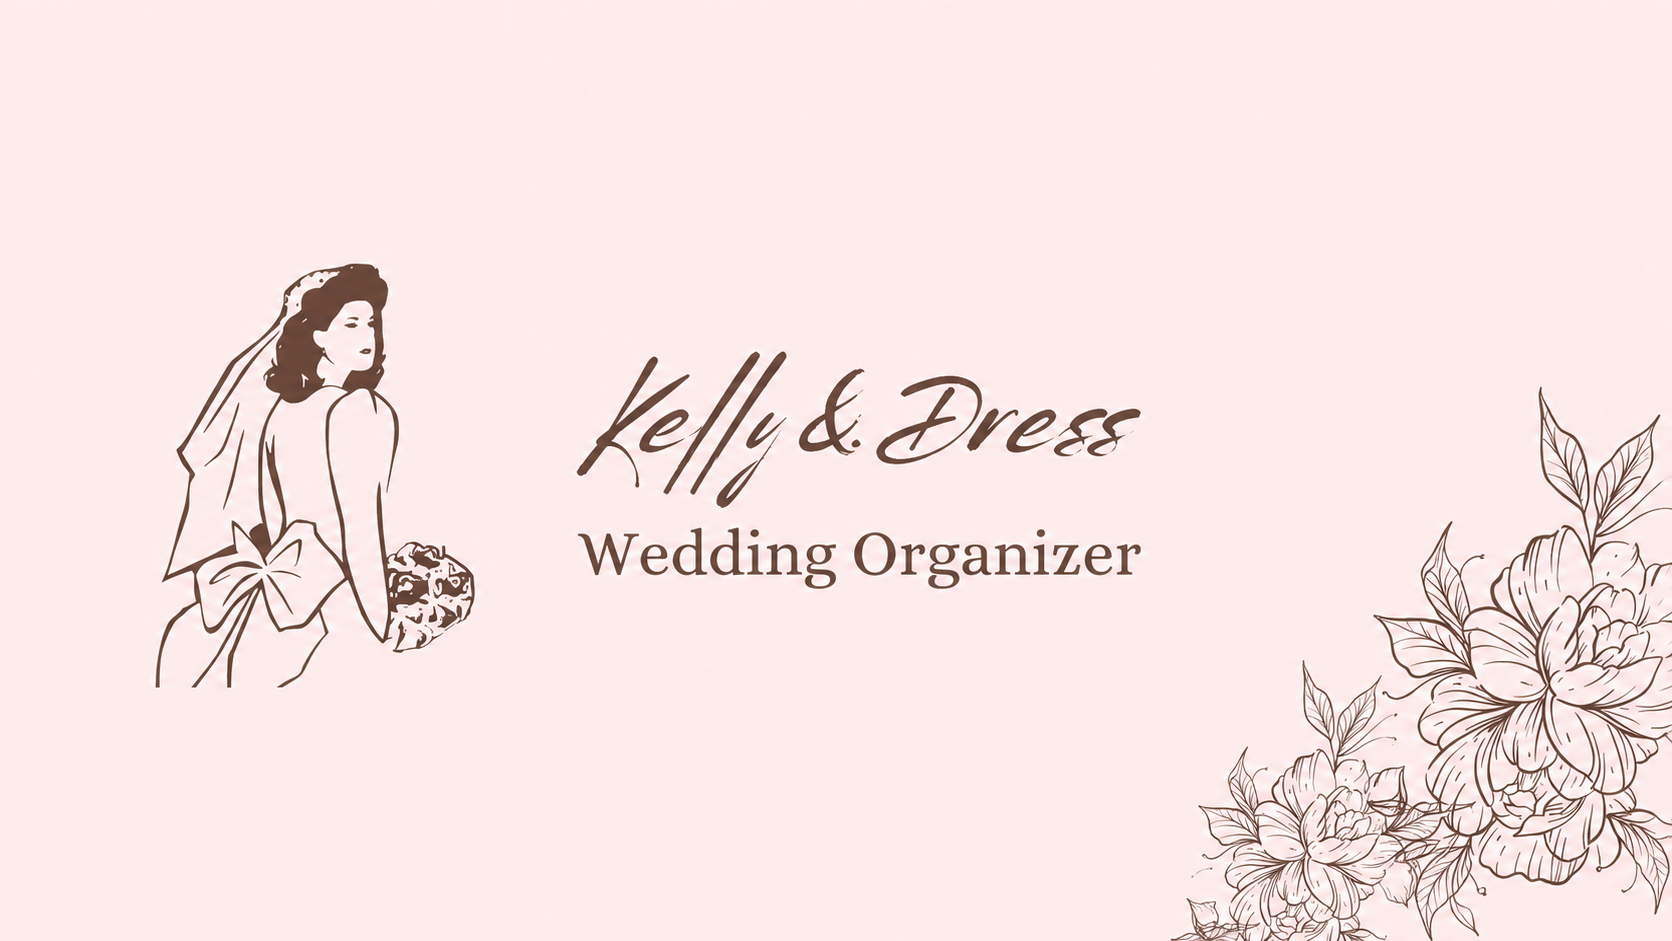
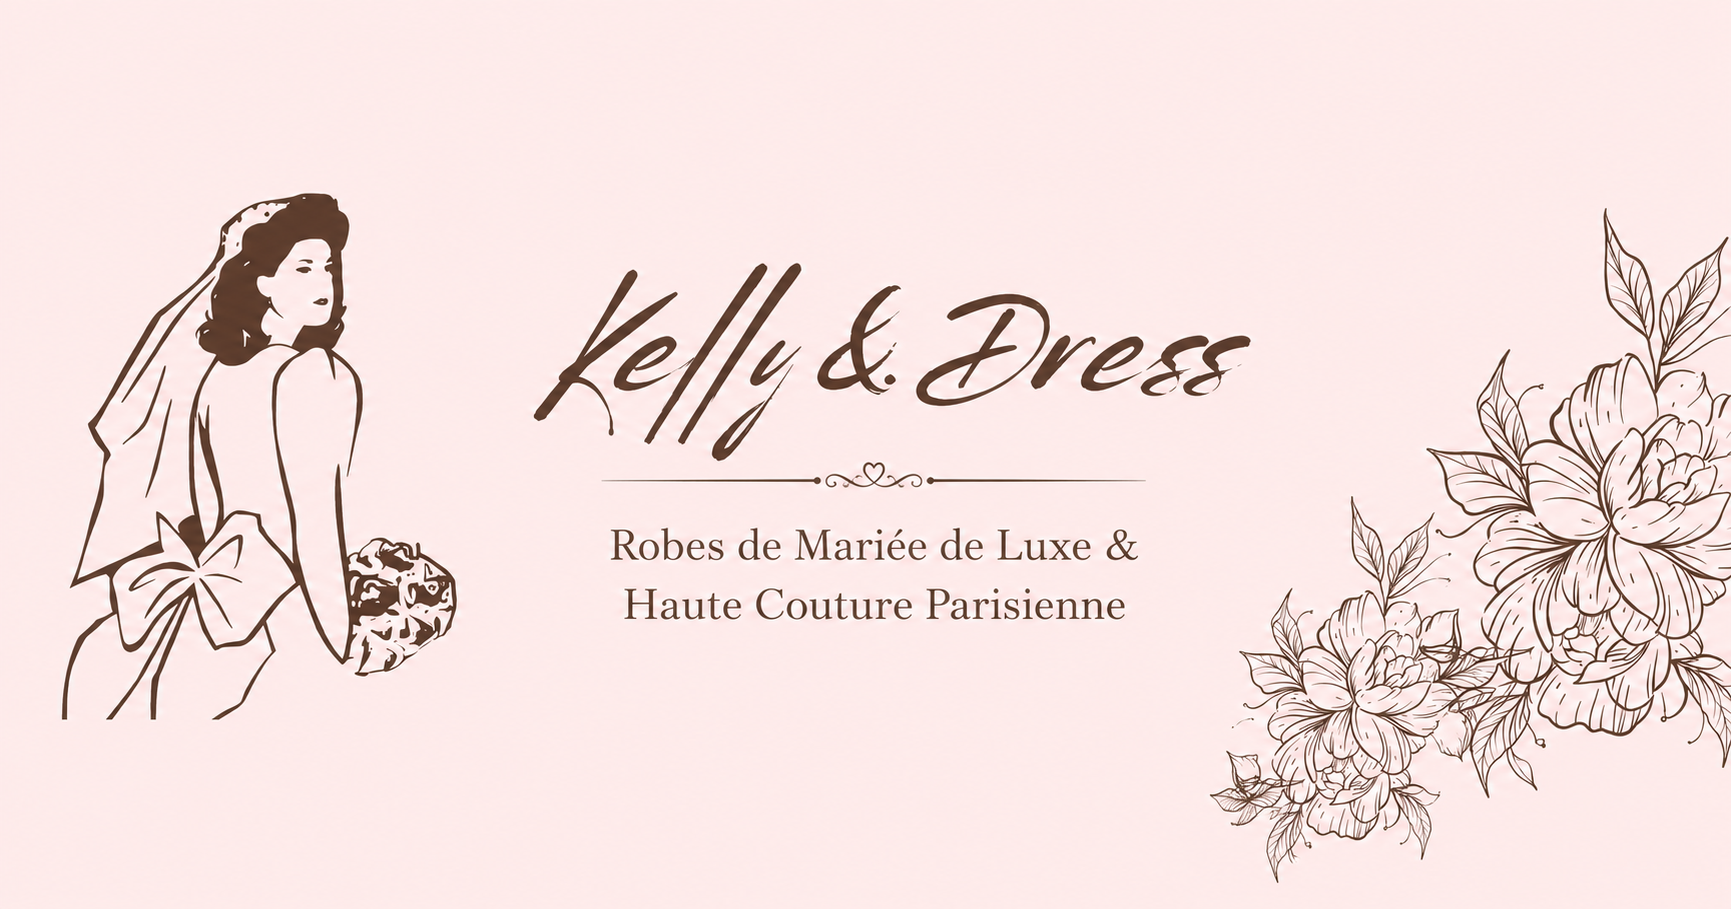
Add files via upload

diff --git a/src/app/cgu/page.js b/src/app/cgu/page.js
@@ -1,5 +1,7 @@
 'use client';
+import { useEffect } from 'react';
 export default function CGU() {
+  useEffect(() => { document.title = 'CGU | Kelly Dress'; }, []);
   return (
     <div className="legal-page">
       <div className="container">
@@ -10,37 +12,61 @@ export default function CGU() {
         <div className="legal-content">
           <section>
             <h2>1. Objet</h2>
-            <p>Les présentes Conditions Générales d'Utilisation (CGU) régissent l'utilisation du site internet Kelly Dress. En accédant à ce site, vous acceptez ces conditions.</p>
+            <p>Les présentes Conditions Générales d'Utilisation (CGU) régissent l'accès et l'utilisation du site internet Kelly Dress (ci-après "le Site"), édité par la société Kelly Dress. En accédant au Site et en naviguant sur celui-ci, vous acceptez sans réserve l'intégralité des présentes conditions. Si vous n'acceptez pas ces conditions, nous vous invitons à ne pas utiliser notre Site.</p>
           </section>
 
           <section>
             <h2>2. Accès au site</h2>
-            <p>L'accès au site est gratuit et ouvert à tous les utilisateurs. Le site s'efforce de rester accessible 24h/24 et 7j/7, mais ne peut garantir une disponibilité permanente.</p>
+            <p>L'accès au Site est gratuit et ouvert à toute personne disposant d'un accès à internet. Le Site est accessible 24 heures sur 24 et 7 jours sur 7, sauf en cas de force majeure, de maintenance technique ou de décision de la direction de Kelly Dress. Nous mettons tout en œuvre pour garantir la continuité du service, mais ne saurions être tenus responsables des interruptions liées au réseau internet ou aux infrastructures d'hébergement.</p>
+            <p>Kelly Dress se réserve le droit de modifier, suspendre ou interrompre l'accès à tout ou partie du Site à tout moment, sans préavis, pour des raisons techniques, de maintenance ou de mise à jour du contenu.</p>
           </section>
 
           <section>
             <h2>3. Compte utilisateur</h2>
-            <p>Pour certaines fonctionnalités, la création d'un compte peut être nécessaire. Vous vous engagez à fournir des informations exactes et à maintenir la confidentialité de vos identifiants de connexion.</p>
+            <p>Pour accéder à certaines fonctionnalités du Site (telles que la gestion des favoris, le suivi des commandes ou l'inscription à la newsletter), la création d'un compte personnel peut être requise. Vous vous engagez à fournir des informations exactes, complètes et à jour lors de la création de votre compte.</p>
+            <p>Vous êtes seul responsable de la confidentialité de vos identifiants de connexion (nom d'utilisateur et mot de passe). Toute activité réalisée depuis votre compte est présumée émaner de votre personne. En cas de perte, de vol ou d'utilisation non autorisée de vos identifiants, vous devez en informer immédiatement Kelly Dress.</p>
+            <p>Nous nous réservons le droit de supprimer tout compte utilisateur en cas de non-respect des présentes CGU ou de comportement frauduleux.</p>
           </section>
 
           <section>
             <h2>4. Commandes et paiements</h2>
-            <p>Les commandes passées sur le site sont fermes et définitives après validation du paiement. Les prix sont indiqués en euros toutes taxes comprises.</p>
+            <p>Les commandes passées sur le Site sont fermes et définitives après validation du paiement. Les prix affichés sont indiqués en euros (€) toutes taxes comprises (TTC). Les frais de livraison sont précisés avant la validation finale de la commande.</p>
+            <p>Le paiement s'effectue par carte bancaire via une plateforme de paiement sécurisée. Les informations bancaires transmises sont cryptées et ne sont jamais stockées sur nos serveurs. Kelly Dress se réserve le droit de refuser ou d'annuler toute commande en cas de litige antérieur, d'incident de paiement ou de suspicion de fraude.</p>
+            <p>En passant commande, vous certifiez être majeur et juridiquement capable de contracter. La confirmation de commande vous sera envoyée par email avec le récapitulatif détaillé de vos achats.</p>
           </section>
 
           <section>
-            <h2>5. Propriété intellectuelle</h2>
-            <p>Tous les éléments du site (textes, images, vidéos, logos) sont la propriété de Kelly Dress ou de ses partenaires. Toute reproduction est interdite sans autorisation.</p>
+            <h2>5. Livraison et rétractation</h2>
+            <p>Les délais de livraison sont indiqués lors de la commande et peuvent varier selon la destination et le type de confection (sur-mesure ou prêt-à-porter). Kelly Dress s'engage à traiter votre commande dans les meilleurs délais.</p>
+            <p>Conformément à l'article L221-18 du Code de la Consommation, vous disposez d'un délai de rétractation de 14 jours à compter de la réception de votre commande pour les produits standards. Pour les créations sur-mesure, le droit de rétractation ne s'applique pas conformément à l'article L221-28 du Code de la Consommation.</p>
           </section>
 
           <section>
-            <h2>6. Données personnelles</h2>
-            <p>Les données personnelles collectées sont traitées conformément à notre Politique de Confidentialité et au RGPD.</p>
+            <h2>6. Propriété intellectuelle</h2>
+            <p>Tous les éléments du Site (textes, illustrations, photographies, vidéos, logos, icônes, codes sources, base de données) sont la propriété exclusive de Kelly Dress ou de ses partenaires et sont protégés par les lois françaises et internationales sur la propriété intellectuelle.</p>
+            <p>Toute reproduction, représentation, modification, adaptation, diffusion ou exploitation, partielle ou totale, du contenu du Site, par quelque procédé que ce soit, sans l'autorisation écrite et préalable de Kelly Dress, est strictement interdite et constitue un acte de contrefaçon passible de poursuites judiciaires.</p>
           </section>
 
           <section>
-            <h2>7. Modification des CGU</h2>
-            <p>Kelly Dress se réserve le droit de modifier ces CGU à tout moment. Les utilisateurs seront informés des modifications par email sur le site.</p>
+            <h2>7. Données personnelles</h2>
+            <p>Les données personnelles collectées sur le Site sont traitées dans le respect de notre Politique de Confidentialité et conformément au Règlement Général sur la Protection des Données (RGPD) 2016/679 du Parlement européen. Vous disposez d'un droit d'accès, de rectification, de suppression et de portabilité de vos données.</p>
+            <p>Pour exercer ces droits, veuillez nous contacter à l'adresse email [email redacted]. Nous nous engageons à traiter votre demande dans un délai maximal de 30 jours.</p>
+          </section>
+
+          <section>
+            <h2>8. Responsabilité</h2>
+            <p>Kelly Dress s'efforce d'assurer l'exactitude et la mise à jour des informations publiées sur le Site. Toutefois, nous ne pouvons garantir l'absence d'erreurs ou d'omissions. L'utilisation du Site se fait sous votre seule responsabilité.</p>
+            <p>Kelly Dress ne saurait être tenue responsable des dommages directs ou indirects résultant de l'utilisation du Site, notamment en cas d'interruption du service, d'intrusion extérieure, de présence de virus informatiques ou de tout fait indépendant de notre volonté.</p>
+          </section>
+
+          <section>
+            <h2>9. Modification des CGU</h2>
+            <p>Kelly Dress se réserve le droit de modifier les présentes Conditions Générales d'Utilisation à tout moment, notamment pour s'adapter aux évolutions législatives, réglementaires ou techniques. Les utilisateurs seront informés des modifications par une notification sur le Site ou par email. L'utilisation continue du Site après la publication des modifications vaut acceptation des nouvelles CGU.</p>
+          </section>
+
+          <section>
+            <h2>10. Droit applicable et juridiction</h2>
+            <p>Les présentes CGU sont régies par le droit français. En cas de litige, les parties s'engagent à rechercher une solution amiable avant toute action judiciaire. À défaut d'accord, les tribunaux compétents seront ceux du ressort du siège social de Kelly Dress.</p>
           </section>
         </div>
       </div>

diff --git a/src/app/confidentialite/page.js b/src/app/confidentialite/page.js
@@ -1,5 +1,7 @@
 'use client';
+import { useEffect } from 'react';
 export default function PolitiqueConfidentialite() {
+  useEffect(() => { document.title = 'Politique de Confidentialité | Kelly Dress'; }, []);
   return (
     <div className="legal-page">
       <div className="container">
@@ -10,37 +12,57 @@ export default function PolitiqueConfidentialite() {
         <div className="legal-content">
           <section>
             <h2>1. Collecte des données</h2>
-            <p>Nous collectons les données personnelles suivantes : nom, prénom, adresse email, adresse de livraison, informations de paiement. Ces données sont collectées lors de la création de compte, de la passation de commande ou de l'inscription à la newsletter.</p>
+            <p>Dans le cadre de votre navigation sur le site Kelly Dress et de l'utilisation de nos services, nous pouvons collecter les catégories de données personnelles suivantes :</p>
+            <p>Données d'identification : nom, prénom, adresse email, numéro de téléphone, adresse postale de livraison et de facturation. Données de compte : identifiant de connexion et historique des commandes. Données de paiement : informations de carte bancaire (transmises de manière sécurisée et cryptée via notre prestataire de paiement, jamais stockées sur nos serveurs). Données de navigation : adresse IP, type de navigateur, pages visitées, temps passé sur le site, via des cookies et technologies similaires.</p>
+            <p>Ces données sont collectées lors de la création de compte, de la passation d'une commande, de l'inscription à notre newsletter, de l'envoi d'un formulaire de contact ou de votre navigation sur le Site.</p>
           </section>
 
           <section>
             <h2>2. Utilisation des données</h2>
-            <p>Vos données sont utilisées pour : traiter vos commandes, gérer votre compte, vous envoyer des communications commerciales (avec votre consentement), améliorer nos services et assurer la sécurité du site.</p>
+            <p>Vos données personnelles sont utilisées aux fins suivantes :</p>
+            <p>Traitement et gestion de vos commandes (préparation, expédition, facturation, service après-vente). Gestion de votre compte client et suivi de votre relation avec notre Maison. Envoi de communications commerciales et newsletters (avec votre consentement préalable). Amélioration continue de nos services et personnalisation de votre expérience sur le Site. Analyse statistique et mesure d'audience pour mieux comprendre vos attentes. Sécurisation du Site et prévention des fraudes. Respect de nos obligations légales et réglementaires.</p>
           </section>
 
           <section>
             <h2>3. Partage des données</h2>
-            <p>Nous ne partageons vos données qu'avec les tiers nécessaires au traitement de vos commandes (transporteurs, prestataires de paiement) et dans le cadre des obligations légales. Nous ne vendons pas vos données à des tiers.</p>
+            <p>Nous ne partageons vos données personnelles qu'avec les partenaires strictement nécessaires à l'exécution de nos services :</p>
+            <p>Prestataires de paiement sécurisé pour le traitement des transactions. Transporteurs et prestataires logistiques pour la livraison de vos commandes. Prestataires techniques (hébergement, maintenance, analyses) dans le cadre de leurs missions. Autorités compétentes en cas d'obligation légale.</p>
+            <p>Nous nous engageons formellement à ne jamais vendre, louer ou céder vos données personnelles à des tiers à des fins commerciales sans votre consentement explicite.</p>
           </section>
 
           <section>
             <h2>4. Conservation des données</h2>
-            <p>Vos données sont conservées pendant la durée nécessaire à la finalité pour laquelle elles ont été collectées, conformément aux obligations légales. Vous pouvez demander la suppression de vos données à tout moment.</p>
+            <p>Vos données personnelles sont conservées pendant la durée nécessaire à la réalisation des finalités pour lesquelles elles ont été collectées :</p>
+            <p>Données de compte : conservées tant que le compte est actif, puis supprimées après 3 ans d'inactivité. Données de commande : conservées pendant la durée légale de 5 ans pour les obligations comptables et fiscales. Données de navigation (cookies) : conservées selon la durée de vie du cookie, généralement 13 mois maximum. Données de newsletter : conservées jusqu'à votre désabonnement.</p>
+            <p>Passé ces délais, vos données sont définitivement supprimées ou anonymisées à des fins statistiques.</p>
           </section>
 
           <section>
             <h2>5. Vos droits</h2>
-            <p>Conformément au RGPD, vous disposez des droits suivants : droit d'accès, de rectification, de suppression, de limitation du traitement, d'opposition et à la portabilité de vos données. Pour exercer ces droits, contactez-nous à [email redacted].</p>
+            <p>Conformément au Règlement Général sur la Protection des Données (RGPD) 2016/679 et à la loi Informatique et Libertés, vous disposez des droits suivants sur vos données personnelles :</p>
+            <p>Droit d'accès : obtenir une copie des données que nous détenons. Droit de rectification : faire corriger des informations inexactes ou incomplètes. Droit à l'effacement (droit à l'oubli) : demander la suppression de vos données. Droit à la limitation du traitement : restreindre l'utilisation de vos données. Droit d'opposition : vous opposer au traitement de vos données. Droit à la portabilité : récupérer vos données dans un format réutilisable. Droit de retirer votre consentement à tout moment.</p>
+            <p>Pour exercer ces droits, contactez-nous à l'adresse email [email redacted] ou par courrier postal. Nous nous engageons à répondre à votre demande dans un délai maximum de 30 jours, et à vous fournir les informations demandées gratuitement, sauf en cas de demandes abusives ou excessives.</p>
           </section>
 
           <section>
             <h2>6. Cookies</h2>
-            <p>Ce site utilise des cookies pour améliorer votre expérience de navigation, analyser le trafic et personnaliser le contenu. Vous pouvez gérer vos préférences cookies via les paramètres de votre navigateur.</p>
+            <p>Le site Kelly Dress utilise des cookies et technologies de traçage similaires pour améliorer votre expérience de navigation et analyser le trafic. Les cookies sont de petits fichiers texte déposés sur votre appareil lors de votre visite.</p>
+            <p>Types de cookies utilisés : Cookies strictement nécessaires au fonctionnement du Site (gestion du panier, authentification). Cookies de performance et d'analyse (mesure d'audience, statistiques de navigation). Cookies de fonctionnalité (préférences de langue, personnalisation de l'affichage).</p>
+            <p>Vous pouvez à tout moment gérer vos préférences de cookies via les paramètres de votre navigateur. Le refus de certains cookies peut impacter le fonctionnement optimal du Site.</p>
           </section>
 
           <section>
             <h2>7. Sécurité</h2>
-            <p>Nous mettons en œuvre des mesures de sécurité appropriées pour protéger vos données contre l'accès non autorisé, la modification, la destruction ou la perte accidentelle.</p>
+            <p>Nous mettons en œuvre toutes les mesures techniques et organisationnelles appropriées pour garantir la sécurité et la confidentialité de vos données personnelles :</p>
+            <p>Cryptage SSL/TLS de l'ensemble des échanges de données. Stockage sécurisé des bases de données avec accès restreint. Pare-feu et systèmes de détection d'intrusion. Procédures de sauvegarde régulières pour prévenir la perte de données. Formation de notre personnel à la protection des données. Contrôle d'accès strict basé sur le principe du besoin d'en connaître.</p>
+            <p>En cas de violation de données susceptible d'engendrer un risque élevé pour vos droits et libertés, nous nous engageons à vous en informer dans les 72 heures conformément au RGPD.</p>
+          </section>
+
+          <section>
+            <h2>8. Contact et réclamations</h2>
+            <p>Pour toute question relative à notre Politique de Confidentialité ou pour exercer vos droits, vous pouvez nous contacter :</p>
+            <p>Par email : [email redacted]. Par courrier : [Adresse du siège social].</p>
+            <p>Si vous estimez que le traitement de vos données n'est pas conforme à la réglementation, vous avez le droit d'introduire une réclamation auprès de la Commission Nationale de l'Informatique et des Libertés (CNIL), autorité de contrôle compétente en France.</p>
           </section>
         </div>
       </div>

diff --git a/src/app/mentions/page.js b/src/app/mentions/page.js
@@ -1,5 +1,7 @@
 'use client';
+import { useEffect } from 'react';
 export default function MentionsLegales() {
+  useEffect(() => { document.title = 'Mentions Légales | Kelly Dress'; }, []);
   return (
     <div className="legal-page">
       <div className="container">
@@ -10,27 +12,47 @@ export default function MentionsLegales() {
         <div className="legal-content">
           <section>
             <h2>Éditeur du site</h2>
-            <p>Kelly Dress</p>
-            <p>Adresse : [Votre adresse]</p>
+            <p>Le site Kelly Dress est édité par la société Kelly Dress, maison de haute couture parisienne spécialisée dans la création de robes de mariée sur mesure.</p>
+            <p>Raison sociale : Kelly Dress</p>
+            <p>Forme juridique : Société à responsabilité limitée (SARL)</p>
+            <p>Capital social : [Capital social]</p>
+            <p>RCS : [Numéro RCS]</p>
+            <p>Numéro de TVA intracommunautaire : [TVA]</p>
+            <p>Siège social : [Adresse du siège social]</p>
             <p>Email : [email redacted]</p>
-            <p>Téléphone : [Votre numéro]</p>
+            <p>Téléphone : [Téléphone]</p>
+            <p>Directeur de la publication : [Nom du directeur]</p>
           </section>
 
           <section>
             <h2>Hébergement</h2>
-            <p>Ce site est hébergé par Vercel Inc.</p>
+            <p>Ce site est hébergé par Vercel Inc., société américaine spécialisée dans l'hébergement et le déploiement d'applications web modernes.</p>
+            <p>Vercel Inc.</p>
             <p>340 S Lemon Ave #4133</p>
-            <p>Walnut, CA 91789, USA</p>
+            <p>Walnut, CA 91789, États-Unis</p>
+            <p>Site web : https://vercel.com</p>
+            <p>L'hébergement est assuré sur des serveurs situés en Europe, garantissant une conformité avec le Règlement Général sur la Protection des Données (RGPD).</p>
           </section>
 
           <section>
             <h2>Propriété intellectuelle</h2>
-            <p>L'ensemble du contenu de ce site (textes, images, vidéos, logos, etc.) est protégé par le droit d'auteur. Toute reproduction, même partielle, est interdite sans autorisation préalable.</p>
+            <p>L'ensemble du contenu du site Kelly Dress, incluant mais ne se limitant pas aux textes, photographies, illustrations, vidéos, logos, icônes, designs, maquettes et codes source, est protégé par les lois françaises et internationales sur le droit d'auteur et la propriété intellectuelle.</p>
+            <p>Toute reproduction, représentation, modification, adaptation, distribution ou exploitation, partielle ou totale, du contenu du site, par quelque procédé que ce soit, sans l'autorisation écrite et préalable de Kelly Dress est strictement interdite et constituerait une contrefaçon sanctionnée par le Code de la Propriété Intellectuelle.</p>
+            <p>Les marques, noms commerciaux et logos figurant sur le site sont des marques déposées par Kelly Dress. Leur utilisation sans autorisation préalable est interdite.</p>
           </section>
 
           <section>
             <h2>Données personnelles</h2>
-            <p>Les données collectées sur ce site sont utilisées uniquement dans le cadre de la relation commerciale. Conformément au RGPD, vous disposez d'un droit d'accès, de rectification et de suppression de vos données.</p>
+            <p>Les données personnelles collectées sur le site Kelly Dress (nom, adresse email, adresse postale, numéro de téléphone, informations de paiement) sont utilisées exclusivement dans le cadre de la gestion des commandes, de la relation client et de l'amélioration de nos services.</p>
+            <p>Conformément au Règlement Général sur la Protection des Données (RGPD) et à la loi Informatique et Libertés, vous disposez d'un droit d'accès, de rectification, de suppression et de portabilité de vos données personnelles. Vous pouvez également vous opposer au traitement de vos données ou en demander la limitation.</p>
+            <p>Pour exercer ces droits, veuillez nous contacter par email à l'adresse [email redacted] ou par courrier postal à l'adresse de notre siège social. Nous nous engageons à répondre à votre demande dans un délai maximum de 30 jours.</p>
+            <p>Vos données ne sont jamais cédées à des tiers à des fins commerciales. Elles peuvent être communiquées aux prestataires techniques nécessaires au traitement de votre commande (transporteurs, prestataires de paiement) dans le strict cadre de leur mission.</p>
+          </section>
+
+          <section>
+            <h2>Cookies</h2>
+            <p>Le site Kelly Dress utilise des cookies et technologies similaires pour améliorer votre expérience de navigation, analyser le trafic du site et personnaliser le contenu proposé. En naviguant sur notre site, vous consentez à l'utilisation de ces cookies conformément à notre politique de confidentialité.</p>
+            <p>Vous pouvez à tout moment modifier vos préférences de cookies via les paramètres de votre navigateur. Le refus de certains cookies peut toutefois affecter le fonctionnement optimal du site.</p>
           </section>
         </div>
       </div>

diff --git a/src/app/catalog/page.js b/src/app/catalog/page.js
@@ -5,6 +5,7 @@ import { useSearchParams } from 'next/navigation';
 import { Heart, SlidersHorizontal, X, Search, ChevronDown, ChevronUp } from 'lucide-react';
 import { useWishlist } from '../../context/WishlistContext';
 import { useTranslation } from '../../context/LanguageContext';
+import { useEffect } from 'react';
 
 function CatalogContent() {
   const { t } = useTranslation();
@@ -64,6 +65,16 @@ function CatalogContent() {
   const styles = ['All', ...new Set(dressesData.map(d => d.style))];
   const priceRanges = ['All', 'Moins de 2000€', '2000€ - 4000€', '4000€ - 6000€', 'Plus de 6000€'];
   const sizes = ['All', ...new Set(dressesData.flatMap(d => d.sizes))].sort();
+
+  // Dynamic page title based on collection
+  useEffect(() => {
+    const colParam = searchParams.get('collection');
+    if (colParam) {
+      document.title = `${colParam} | Kelly Dress`;
+    } else {
+      document.title = 'Catalogue | Kelly Dress';
+    }
+  }, [searchParams]);
 
   // Read collection from URL query params (e.g. ?collection=Couture)
   useEffect(() => {
@@ -191,8 +202,9 @@ function CatalogContent() {
       <section className="catalog-hero section-padding">
         <div className="container">
           <span className="section-subtitle">{t('catalog.title')}</span>
-          <h1 className="section-title">{t('catalog.title')}</h1>
+          <h1 className="section-title">{selectedCollection !== 'All' ? selectedCollection : t('catalog.title')}</h1>
           <p className="catalog-intro">{t('hero.cta')}</p>
+          <p className="catalog-intro-sub">Découvrez notre collection de robes de mariée d'exception, chacune conçue pour révéler la beauté et la personnalité de chaque future mariée. Parcourez notre sélection de créations haute couture, des silhouettes princesse aux lignes sirène épurées, en passant par des modèles bohèmes et contemporains. Chaque robe raconte une histoire d'amour et d'élégance intemporelle, façonnée par des artisans d'exception dans notre atelier parisien.</p>
         </div>
       </section>
 
@@ -1263,6 +1275,7 @@ function CatalogContent() {
 }
 
 export default function Catalog() {
+
   return (
     <Suspense fallback={
       <div style={{ display: 'flex', justifyContent: 'center', alignItems: 'center', minHeight: '80vh', fontFamily: 'var(--font-sans)', fontSize: '0.85rem', letterSpacing: '0.15em', color: 'var(--color-gold)' }} role="status">

diff --git a/src/app/about/page.js b/src/app/about/page.js
@@ -1,9 +1,10 @@
 'use client';
-import React from 'react';
+import React, { useEffect } from 'react';
 import { useTranslation } from '../../context/LanguageContext';
 
 export default function About() {
   const { t } = useTranslation();
+  useEffect(() => { document.title = 'À Propos | Kelly Dress'; }, []);
   return (
     <div className="about-wrapper">
       <section className="about-hero section-padding">
@@ -20,10 +21,14 @@ export default function About() {
             <div className="about-block">
               <h3>{t('about.heritage')}</h3>
               <p>{t('about.heritageDesc')}</p>
+              <p>Notre Maison puise son inspiration dans les archives des grandes maisons de couture françaises, réinterprétant les silhouettes iconiques avec une sensibilité résolument moderne. Chaque création raconte une histoire, celle d'un savoir-faire transmis de génération en génération, où la main de l'artisan reste au cœur du processus créatif.</p>
+              <p>De la première esquisse à la dernière retouche, chaque robe Kelly Dress est le résultat d'un dialogue intime entre la mariée et notre atelier. Nous croyons en une mode qui célèbre l'individualité, où chaque détail — du choix du tissu à la coupe finale — est pensé pour révéler la beauté unique de celle qui la portera.</p>
             </div>
             <div className="about-block">
               <h3>{t('about.metiers')}</h3>
               <p>{t('about.metiersDesc')}</p>
+              <p>Nos artisans d'art maîtrisent des techniques séculaires : la couture main, le plissé soleil, la broderie perlée, la dentelle à l'aiguille. Chaque point est exécuté avec une précision millimétrique, chaque couture renforcée pour traverser le temps. C'est cette exigence de perfection qui distingue la haute couture de la confection industrielle.</p>
+              <p>Notre atelier parisien réunit des talents rares : modélistes, tailleurs, brodeurs et fleuristes. Ensemble, ils donnent vie à des créations uniques, où la technique rencontre l'émotion. Chaque robe est un objet d'art vivant, porteur d'une histoire d'amour et d'un rêve d'éternité.</p>
             </div>
           </div>
         </div>

diff --git a/src/app/contact/page.js b/src/app/contact/page.js
@@ -1,5 +1,5 @@
 'use client';
-import React from 'react';
+import React, { useEffect } from 'react';
 import { Mail, Phone, MapPin } from 'lucide-react';
 import { useTranslation } from '../../context/LanguageContext';
 
@@ -41,6 +41,7 @@ const Facebook = ({ size = 24, className }) => (
 
 export default function Contact() {
   const { t } = useTranslation();
+  useEffect(() => { document.title = 'Contact | Kelly Dress'; }, []);
 
   return (
     <div className="contact-wrapper">
@@ -50,6 +51,7 @@ export default function Contact() {
           <span className="section-subtitle">{t('contact.title')}</span>
           <h1 className="section-title">{t('contact.nousEcrire')}</h1>
           <p className="contact-intro">{t('contact.intro')}</p>
+          <p className="contact-intro-sub">Notre équipe de conseillères haute couture est à votre disposition pour vous accompagner dans la création de votre robe de mariée de rêve. Que vous ayez une question sur nos collections, un projet de création sur-mesure ou que vous souhaitiez réserver un rendez-vous privé dans notre atelier, nous répondons à toutes vos demandes avec la plus grande attention. Chaque future mariée mérite une expérience unique et personnalisée, et c'est avec passion que nous vous guidons vers la robe qui révélera toute votre élégance le jour J.</p>
         </div>
       </section>
 

diff --git a/src/app/wishlist/page.js b/src/app/wishlist/page.js
@@ -1,5 +1,5 @@
 'use client';
-import React from 'react';
+import React, { useEffect } from 'react';
 import Link from 'next/link';
 import { Heart, ArrowRight, Trash2 } from 'lucide-react';
 import { useWishlist } from '../../context/WishlistContext';
@@ -7,6 +7,7 @@ import { useTranslation } from '../../context/LanguageContext';
 
 export default function Wishlist() {
   const { t } = useTranslation();
+  useEffect(() => { document.title = 'Mes Favoris | Kelly Dress'; }, []);
   const { wishlist, removeFromWishlist } = useWishlist();
 
   return (
@@ -17,6 +18,7 @@ export default function Wishlist() {
           <span className="section-subtitle">{t('wishlist.title')}</span>
           <h1 className="section-title">{t('wishlist.title')}</h1>
           <p className="wishlist-intro">{t('wishlist.emptyDesc')}</p>
+          <p className="wishlist-intro-sub">Créez votre sélection personnelle de robes coup de cœur en naviguant dans notre catalogue. Ajoutez vos modèles préférés à votre liste de favoris pour les retrouver facilement, les comparer et prendre le temps de choisir la robe qui vous fera rêver. Votre liste est privée et accessible à tout moment.</p>
         </div>
       </section>
 

diff --git a/src/app/blog/page.js b/src/app/blog/page.js
@@ -1,5 +1,5 @@
 'use client';
-import React, { useState } from 'react';
+import React, { useState, useEffect } from 'react';
 import Link from 'next/link';
 import { ArrowRight } from 'lucide-react';
 import { blogArticles } from '../../data/blog';
@@ -7,6 +7,7 @@ import { useTranslation } from '../../context/LanguageContext';
 
 export default function Blog() {
   const { t } = useTranslation();
+  useEffect(() => { document.title = 'Actualités | Kelly Dress'; }, []);
   const [activeCategory, setActiveCategory] = useState('All');
 
   const categories = ['All', 'Défilés', 'Évènements', 'Nouveautés'];

diff --git a/src/app/page.js b/src/app/page.js
@@ -6,6 +6,7 @@ import { useTranslation } from '../context/LanguageContext';
 
 export default function Home() {
   const { t } = useTranslation();
+  useEffect(() => { document.title = 'Kelly Dress | Robes de Mariée Haute Couture Parisienne'; }, []);
   const collectionRefs = useRef([]);
   const [activeSlide, setActiveSlide] = useState(0);
   const [showMore, setShowMore] = useState(false);